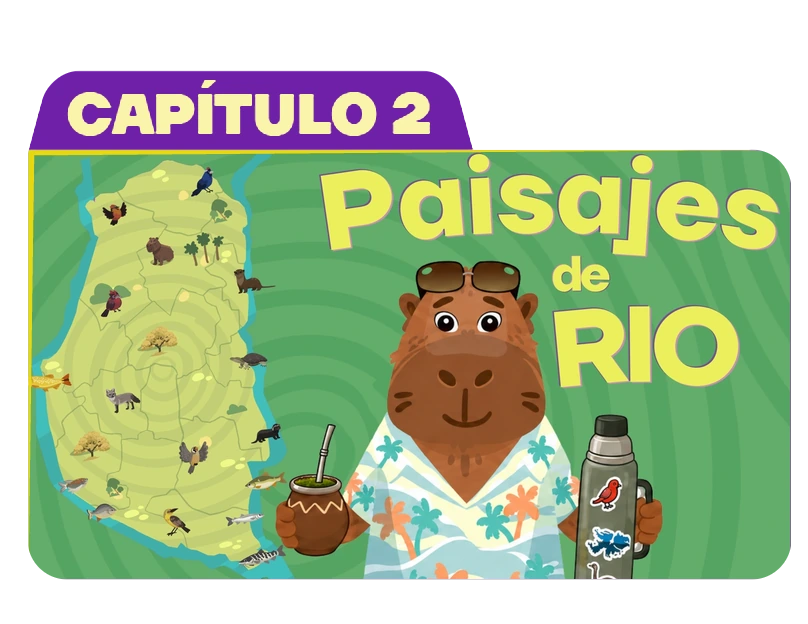
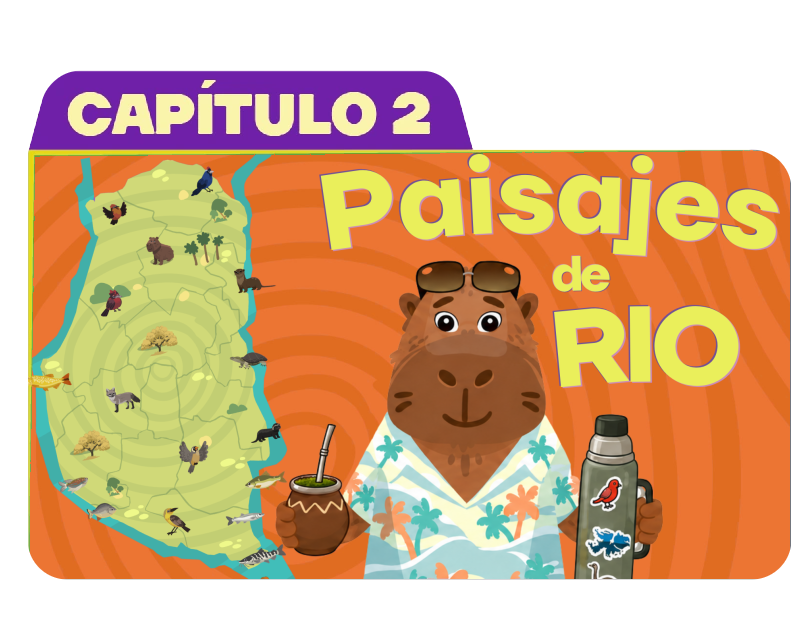
Portadas nuevas horneadas en las tarjetas de capitulo 2, 3, 5 y guia 5
Los archivos de portadas/ no los sirve el sitio: son la fuente que en 6145b6f
quedo horneada dentro de partes/Capitulo*.webp y partes/Guia*.webp. Al
reemplazarlos no cambiaba nada en pantalla, asi que se rehornean.

- Capitulos 2, 3 y 5: la portada entra completa en un rect 16:9 a escala
  0.397, sin recorte ni bandas. La ubicacion se recupera por correlacion
  contra la propia tarjeta (score >0.996), no esta hardcodeada.
- Guia 5: ahi la portada va rotada 13.85 grados dentro del papel, asi que la
  transformacion sale de una homografia por SIFT + RANSAC (399/438 inliers).
- En los cuatro casos solo se reemplazan los pixeles que coinciden con la
  portada vieja, de modo que el marco amarillo, la pestania, el marco crema y
  la sombra quedan intactos. El canal alpha no se toca, asi que el redondeo de
  esquinas del commit anterior se conserva bit a bit.
- Guia5 pasa a lossless (48 -> 245 KB): con perdida cae a 30 dB de PSNR, muy
  por debajo de los ~40 dB de las tarjetas grandes, y ahi si se nota.

Los scripts quedan en tools/ para que la proxima vez que cambie una portada
sea un comando y no arqueologia.

diff --git a/tools/hornear_portada.py b/tools/hornear_portada.py
@@ -1,0 +1,86 @@
+"""
+Reemplaza la portada incrustada dentro de una tarjeta ya compuesta.
+
+Las tarjetas de partes/Capitulo*.webp tienen la portada del capitulo horneada
+adentro, con el marco amarillo y los demas adornos dibujados encima. Este
+script encuentra donde y a que escala quedo la portada vieja -por correlacion
+contra la propia tarjeta-, arma la mascara de los pixeles que son portada y no
+adorno, y pega la portada nueva solo ahi.
+
+El canal alpha no se toca, asi que la silueta de la carpeta y el redondeo de
+las esquinas se conservan exactos.
+
+  python tools/hornear_portada.py <tarjeta.webp> <portada_vieja> <portada_nueva> <salida.webp>
+"""
+import sys
+import numpy as np
+import cv2
+from PIL import Image
+
+
+def _bgr(p):
+    return cv2.cvtColor(np.array(Image.open(p).convert('RGB')), cv2.COLOR_RGB2BGR)
+
+
+def encajar(tarjeta, portada, escalas):
+    """Devuelve (score, escala, offset) de la portada dentro de la tarjeta."""
+    h, w = tarjeta.shape[:2]
+    parche = tarjeta[h // 2 - 60:h // 2 + 60, w // 2 - 60:w // 2 + 60]
+    mejor = None
+    for s in escalas:
+        pr = cv2.resize(portada, None, fx=s, fy=s, interpolation=cv2.INTER_AREA)
+        if pr.shape[0] < parche.shape[0] or pr.shape[1] < parche.shape[1]:
+            continue
+        _, mx, _, loc = cv2.minMaxLoc(cv2.matchTemplate(pr, parche, cv2.TM_CCOEFF_NORMED))
+        if mejor is None or mx > mejor[0]:
+            mejor = (mx, s, ((w // 2 - 60) - loc[0], (h // 2 - 60) - loc[1]))
+    return mejor
+
+
+def proyectar(portada, escala, offset, forma):
+    """Dibuja la portada escalada sobre un lienzo del tamanio de la tarjeta."""
+    pr = cv2.resize(portada, None, fx=escala, fy=escala, interpolation=cv2.INTER_AREA)
+    lienzo = np.zeros(forma, np.uint8)
+    dentro = np.zeros(forma[:2], bool)
+    ox, oy = offset
+    x0, y0 = max(ox, 0), max(oy, 0)
+    x1, y1 = min(ox + pr.shape[1], forma[1]), min(oy + pr.shape[0], forma[0])
+    lienzo[y0:y1, x0:x1] = pr[y0 - oy:y1 - oy, x0 - ox:x1 - ox]
+    dentro[y0:y1, x0:x1] = True
+    return lienzo, dentro
+
+
+def hornear(ruta_tarjeta, ruta_vieja, ruta_nueva, tolerancia=26):
+    rgba = np.array(Image.open(ruta_tarjeta).convert('RGBA'))
+    tarjeta = cv2.cvtColor(rgba[:, :, :3], cv2.COLOR_RGB2BGR)
+    vieja, nueva = _bgr(ruta_vieja), _bgr(ruta_nueva)
+
+    score, s, off = encajar(tarjeta, vieja, np.arange(0.20, 0.75, 0.005))
+    score, s, off = encajar(tarjeta, vieja, np.arange(s - 0.006, s + 0.006, 0.0005))
+    if score < 0.9:
+        raise SystemExit(f'no se encontro la portada vieja en la tarjeta (score {score:.3f})')
+
+    proy_vieja, dentro = proyectar(vieja, s, off, tarjeta.shape)
+    proy_nueva, _ = proyectar(nueva, s, off, tarjeta.shape)
+
+    # Son portada los pixeles que coinciden con la vieja; el resto es adorno
+    # dibujado encima (marco amarillo, personajes) y se deja intacto.
+    parecido = np.abs(tarjeta.astype(int) - proy_vieja.astype(int)).max(axis=2) <= tolerancia
+    mascara = parecido & dentro & (rgba[:, :, 3] > 0)
+    # Cierra los agujeritos que deja el ruido de compresion.
+    mascara = cv2.morphologyEx(mascara.astype(np.uint8), cv2.MORPH_CLOSE,
+                               np.ones((5, 5), np.uint8)).astype(bool)
+    mascara &= dentro
+
+    salida = tarjeta.copy()
+    salida[mascara] = proy_nueva[mascara]
+    rgba[:, :, :3] = cv2.cvtColor(salida, cv2.COLOR_BGR2RGB)
+    return Image.fromarray(rgba, 'RGBA'), score, s, off, float(mascara.mean())
+
+
+if __name__ == '__main__':
+    tarjeta, vieja, nueva, salida = sys.argv[1:5]
+    im, score, s, off, cobertura = hornear(tarjeta, vieja, nueva)
+    im.save(salida, lossless=True, method=6)
+    print(f'{salida}: score {score:.4f} escala {s:.4f} offset {off} '
+          f'| {cobertura*100:.1f}% del lienzo reemplazado')

diff --git a/tools/hornear_guia.py b/tools/hornear_guia.py
@@ -1,0 +1,66 @@
+"""
+Reemplaza la portada incrustada dentro de una tarjeta de guia.
+
+Igual que tools/hornear_portada.py, pero para los papeles de las guias, donde
+la portada no entra en un rect recto sino rotada y deformada dentro del papel.
+La transformacion se recupera por correspondencia de rasgos (SIFT + RANSAC)
+entre la portada vieja y la tarjeta, asi que no hay que medir nada a mano.
+
+El canal alpha no se toca: el papel, su marco crema y su sombra se conservan.
+
+  python tools/hornear_guia.py <tarjeta.webp> <portada_vieja> <portada_nueva> <salida.webp>
+"""
+import sys
+import numpy as np
+import cv2
+from PIL import Image
+
+
+def _bgr(p):
+    return cv2.cvtColor(np.array(Image.open(p).convert('RGB')), cv2.COLOR_RGB2BGR)
+
+
+def homografia(vieja, tarjeta, esc=0.35):
+    """Mapea coordenadas de la portada a coordenadas de la tarjeta."""
+    chica = cv2.resize(vieja, None, fx=esc, fy=esc, interpolation=cv2.INTER_AREA)
+    sift = cv2.SIFT_create(nfeatures=4000)
+    k1, d1 = sift.detectAndCompute(cv2.cvtColor(chica, cv2.COLOR_BGR2GRAY), None)
+    k2, d2 = sift.detectAndCompute(cv2.cvtColor(tarjeta, cv2.COLOR_BGR2GRAY), None)
+    pares = [a for a, b in cv2.BFMatcher().knnMatch(d1, d2, k=2) if a.distance < 0.75 * b.distance]
+    if len(pares) < 20:
+        raise SystemExit(f'pocas coincidencias ({len(pares)}) entre la portada vieja y la tarjeta')
+    src = np.float32([k1[x.queryIdx].pt for x in pares]).reshape(-1, 1, 2) / esc
+    dst = np.float32([k2[x.trainIdx].pt for x in pares]).reshape(-1, 1, 2)
+    H, inliers = cv2.findHomography(src, dst, cv2.RANSAC, 3.0)
+    return H, int(inliers.sum()), len(pares)
+
+
+def hornear(ruta_tarjeta, ruta_vieja, ruta_nueva, tolerancia=30):
+    rgba = np.array(Image.open(ruta_tarjeta).convert('RGBA'))
+    tarjeta = cv2.cvtColor(rgba[:, :, :3], cv2.COLOR_RGB2BGR)
+    vieja, nueva = _bgr(ruta_vieja), _bgr(ruta_nueva)
+
+    H, inliers, total = homografia(vieja, tarjeta)
+    alto, ancho = tarjeta.shape[:2]
+    proy_vieja = cv2.warpPerspective(vieja, H, (ancho, alto), flags=cv2.INTER_AREA)
+    proy_nueva = cv2.warpPerspective(nueva, H, (ancho, alto), flags=cv2.INTER_AREA)
+    dentro = cv2.warpPerspective(np.full(vieja.shape[:2], 255, np.uint8), H, (ancho, alto)) > 200
+
+    parecido = np.abs(tarjeta.astype(int) - proy_vieja.astype(int)).max(axis=2) <= tolerancia
+    mascara = parecido & dentro & (rgba[:, :, 3] > 0)
+    mascara = cv2.morphologyEx(mascara.astype(np.uint8), cv2.MORPH_CLOSE,
+                               np.ones((5, 5), np.uint8)).astype(bool)
+    # Retrae un pixel el borde para no pisar el antialias del marco crema.
+    mascara &= cv2.erode(dentro.astype(np.uint8), np.ones((3, 3), np.uint8)).astype(bool)
+
+    salida = tarjeta.copy()
+    salida[mascara] = proy_nueva[mascara]
+    rgba[:, :, :3] = cv2.cvtColor(salida, cv2.COLOR_BGR2RGB)
+    return Image.fromarray(rgba, 'RGBA'), inliers, total, float(mascara.mean())
+
+
+if __name__ == '__main__':
+    tarjeta, vieja, nueva, salida = sys.argv[1:5]
+    im, inliers, total, cobertura = hornear(tarjeta, vieja, nueva)
+    im.save(salida, lossless=True, method=6)
+    print(f'{salida}: {inliers}/{total} inliers | {cobertura*100:.1f}% del lienzo reemplazado')
